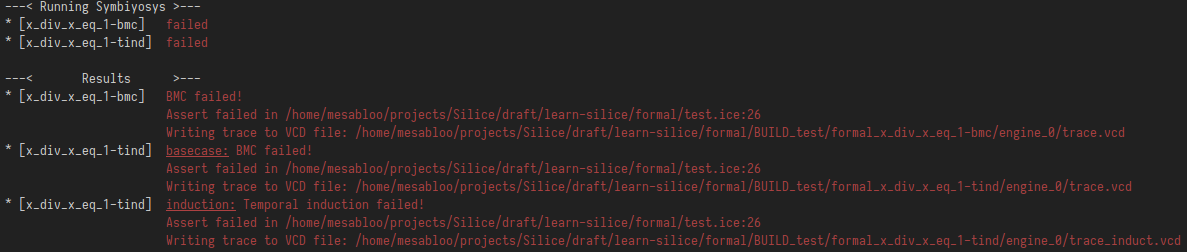
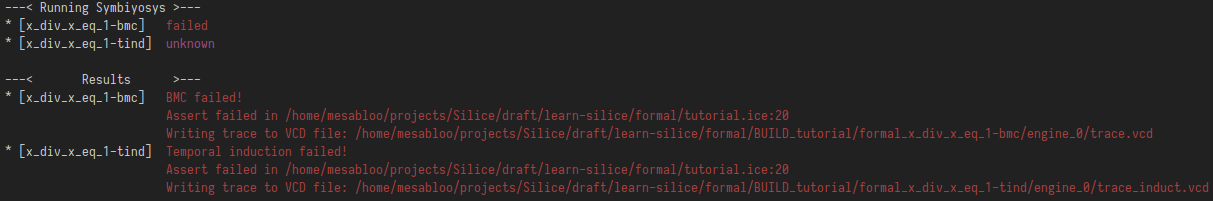
add some details to the tutorial and refresh the screenshots

diff --git a/learn-silice/formal/README.md b/learn-silice/formal/README.md
@@ -82,7 +82,7 @@ The build system also presents a summary of Symbiyosys logs for easier interpret
 of the results, linking them to your Silice code 
 
 > **Note:** All Symbiyosys logs are kept if in-depth analysis is later required: see
-`logfile.txt` file in the build directory.
+> the `logfile.txt` file in the build directory.
 
 > **Note:** In case you want to modify the file `formal.sby` (which is also generated), you will have to run Symbiyosys by hand using the command `sby -f formal.sby` (re-running the formal board will override all your modifications). The `-f` option indicates that we are okay discarding the old results of previous runs.
 
@@ -280,7 +280,7 @@ We add an assumption with the `#assume` construct. Assume and
 restrict are quite similar. The only difference between them lies in this property:
 
 > If any assertion depends on an assumption use `#assume`, else use `#restrict`.
-In doubt use `#assume`.
+> In doubt use `#assume`.
 
 In our test algorithm, the assertion depends on the assumption that `x ≠ 0`, therefore it must be modified as follows:
 ```c
@@ -358,7 +358,12 @@ Running `make tutorial` (there should be a file name `tutorial.ice` in this fold
 does not yield the correct results: our compact division is flawed at least on 8-bits!
 
 ![tutorial results](./tutorial-results.png)
-> **Note:** Temporal induction fails in both cases here. The basecase *should* always fail whenever a simple BMC fails, because it is proven using a BMC.
+> **Note:** Temporal induction is *expected* to fail when a simple BMC already fails before.
+> 
+> In the case of a BMC timeout, temporal induction may or may not fail. 
+> A non-failing BMC can be unsafely assumed in such case.
+>
+> When both the BMC and the temporal induction timeout, nothing can be concluded.
 
 Visualizing the generated VCD trace in GTKWave yields a strange result: it appears that `192 ÷ 192 = 169`! That's strange...
 ![gtkwave vcd tutorial trace](./tutorial-trace.png)
@@ -381,8 +386,8 @@ Here are some other features that have not been discussed earlier because they w
 
 <details><summary>Click me to reveal the spoiler (please don't)</summary>
 
-> It doesn't quite make sens to verify this in our interactive example.
-> Therefore, a dumb example will most likely be given, to illustrate how one may use `#wasin`.
+> It doesn't quite make sense to verify this in our interactive example.
+> Therefore a dumb example will be given to illustrate how one may use `#wasin`.
 
 </details>
 
